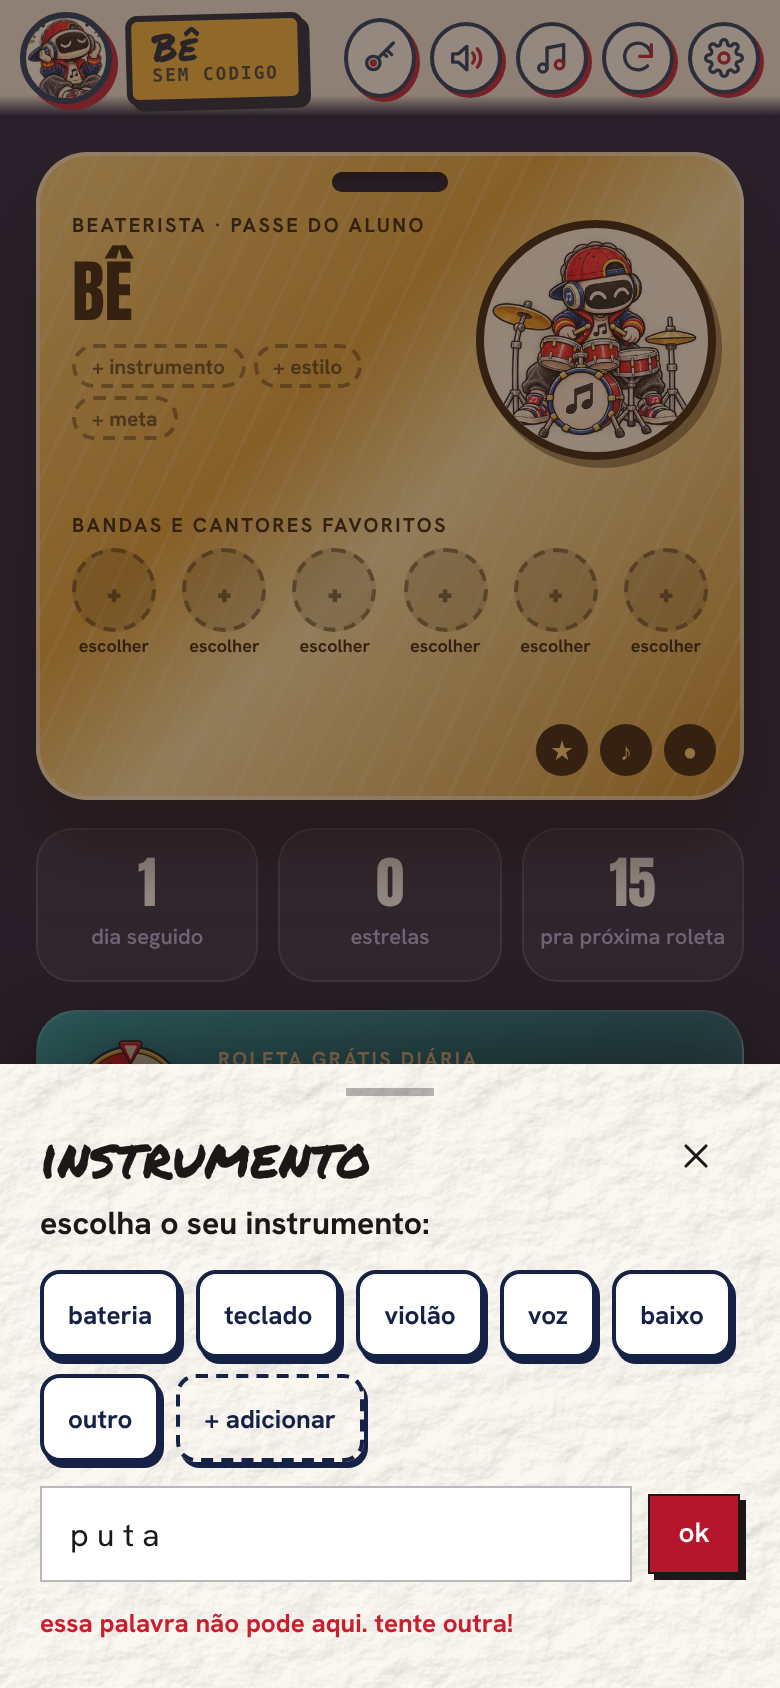
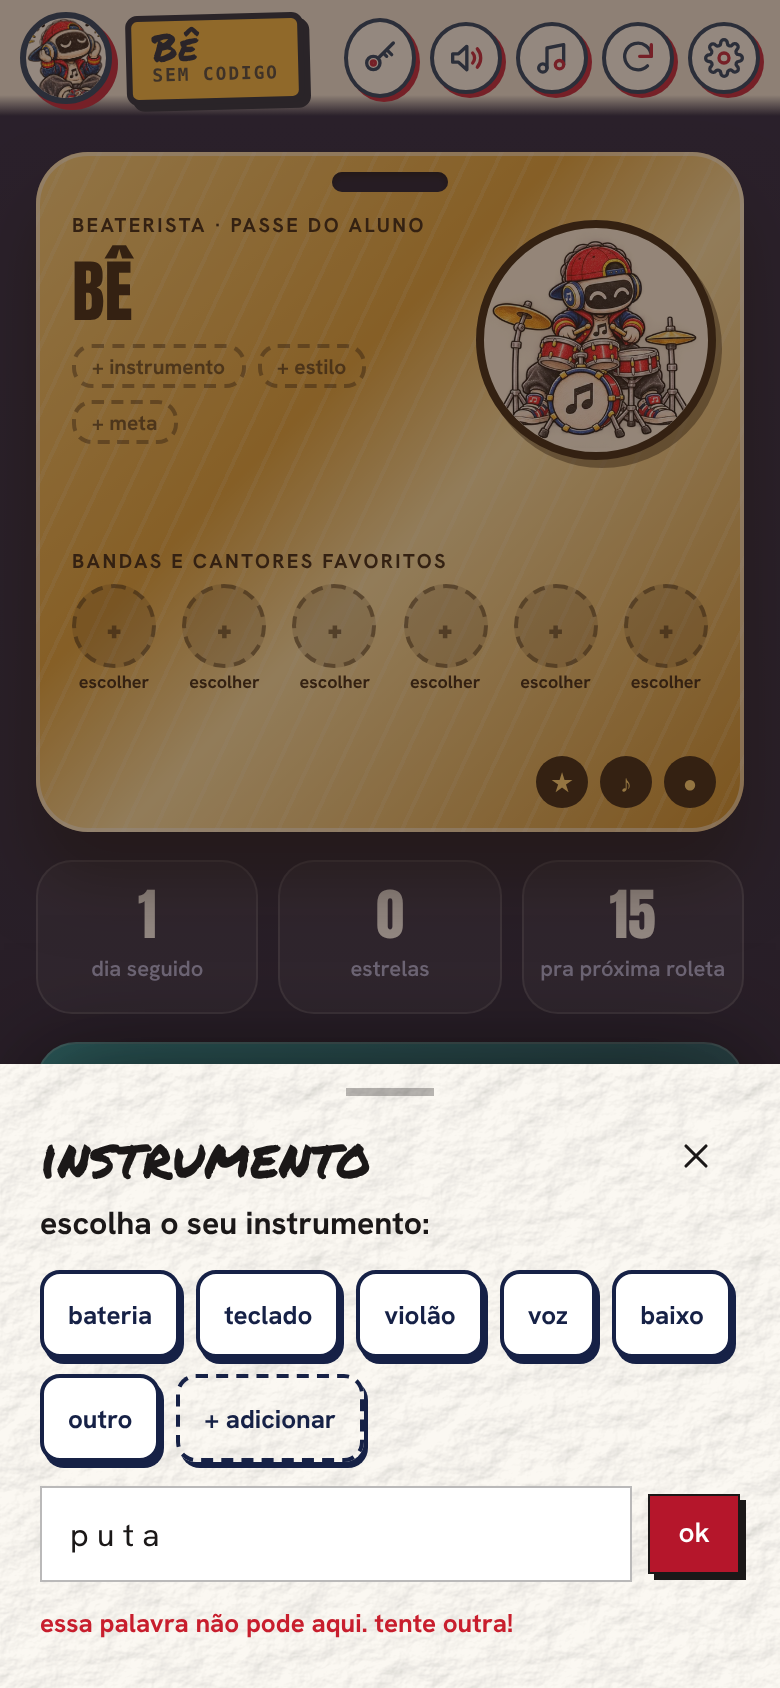
v709: etiquetas adesivo (opcao B) e lista de palavras bloqueadas ampliada (67, aura, farmador...)
Claude-Session: https://claude.ai/code/session_017Ekti3kM2Vxnu27Y3eqQNw

diff --git a/js/palavras-bloqueadas.js b/js/palavras-bloqueadas.js
@@ -2,13 +2,14 @@
 // É uma lista inicial: a Bea (ou eu) acrescenta ou tira palavras aqui, uma por linha. Escreva sem acento e em minúsculas.
 // Como confere: ignora acento, maiúscula, número no lugar de letra (p0rra), letras repetidas (puuuta) e espaço ou ponto no meio (p u t a).
 const BLOQUEADAS = `
-puta puto putaria putinha porra caralho carai cacete merda bosta foda fode foder fodase fodido fdp vsf vtnc tnc
-cu cuzao cuzinho buceta bct xoxota xana piroca punheta boquete siririca
+puta puto putaria putinha putao porra caralho caraio karalho carai krl cacete merda merdinha bosta bostinha foda fode foder fodase fodido fodida fdp vsf vtnc pqp pnc
+cu cuzao cuzona cuzinho buceta bct xoxota xana piroca punheta boquete siririca tomanocu vaitomanocu
 viado viadinho bicha sapatao traveco vagabunda vagabundo vadia piranha arrombado arrombada desgraca desgracado
-otario otaria idiota imbecil retardado retardada mongol babaca escroto escrota
-sexo sexy porno pornografia nude nudes gostosa gostoso tesao transar estupro estuprador pedofilo pedofilia
-nazista nazismo hitler racista
-suicidio suicida cocaina maconha crack heroina
+otario otaria idiota imbecil retardado retardada mongol babaca escroto escrota burro burra estupido estupida trouxa corno cornudo cretino cretina demente debil lazarento nojento mulambo
+sexo sexy porno pornografia nude nudes tesao transar estupro estuprador pedofilo pedofilia
+nazista nazismo hitler racista crioulo
+suicidio suicida cocaina maconha heroina
+67 sixseven seissete aura farmaaura farmador farmadora farmar farmando farmei sigma skibidi gyatt gyat rizz mewing brainrot ohio
 fuck fucking shit bitch dick pussy cunt asshole nigger nigga faggot porn sex
 `.split(/\s+/).filter(Boolean);
 const SET = new Set(BLOQUEADAS);
@@ -21,6 +22,7 @@ const semRepetir = (t) => t.replace(/(.)\1+/g, '$1');
 /** O texto tem alguma palavra que não pode? */
 export function bloqueada(texto) {
   const base = normaliza(texto);
+  if (/(?:^|\D)6\s*[-.,_]?\s*7(?!\d)/.test(String(texto || ''))) return true; // "67" (também "6 7", "6-7")
   const brutas = base.split(/[^a-z]+/).filter(Boolean);
   const palavras = []; let letras = ''; // letras soltas seguidas (p u t a) viram uma palavra só
   for (const t of brutas) { if (t.length === 1) letras += t; else { if (letras) { palavras.push(letras); letras = ''; } palavras.push(t); } }

diff --git a/css/inicio.css b/css/inicio.css
@@ -163,3 +163,12 @@ body:has(.inicio) .atualiza-bar { display: none !important; }
 .in-sobre-chips button { border: 2px solid #162146; background: #fff; color: #162146; border-radius: 10px !important; padding: 6px 12px; font: 700 13px "Hanken Grotesk", sans-serif; box-shadow: 2px 3px 0 #162146; cursor: pointer; }
 .in-sobre-chips button.on, .in-sobre-chips button[aria-pressed="true"] { background: #f2a91b; }
 .in-sobre-chips .in-sobre-mais { border-style: dashed; background: transparent; }
+
+/* etiquetas "adesivo" (opção B da Bea): creme, borda grossa, sombra deslocada e giro leve; o rótulo em vermelho e o valor ao lado */
+.in-pills { gap: 6px; }
+.in-pill.tem { background: #fff7e6; color: #2a1a05; border: 2px solid #2a1a05; border-radius: 10px !important; padding: 3px 9px 4px; font: 700 11px "Hanken Grotesk", sans-serif; box-shadow: 2px 3px 0 #2a1a05; }
+.in-pill.tem b { font: 400 10px "Anton", sans-serif; text-transform: uppercase; letter-spacing: .1em; color: #c81e2d; margin-right: 5px; }
+.in-pill.tem:nth-child(1) { transform: rotate(-2deg); } .in-pill.tem:nth-child(2) { transform: rotate(1.5deg); } .in-pill.tem:nth-child(3) { transform: rotate(-1deg); }
+.in-pill:not(.tem) { border-radius: 10px !important; }
+.in-passe { height: 340px; }
+.in-passe .in-favt { top: 198px; } .in-passe .in-favs { top: 216px; }

diff --git a/js/views/inicio.js b/js/views/inicio.js
@@ -160,7 +160,7 @@ export function mount(host, { nome = '' } = {}) {
     if (atual) caixa.append(h('button', { type: 'button', class: 'btn small ghost', onclick: () => pega('') }, 'tirar'));
     return caixa;
   });
-  const desenhaPills = () => { const p = PERF.perfil(); pills.replaceChildren(...PERF.CAMPOS.map((c) => h('button', { type: 'button', class: `in-pill${p[c.k] ? ' tem' : ''}`, 'aria-label': p[c.k] ? `${c.nome}: ${p[c.k]}. tocar pra trocar` : `escolher ${c.nome}`, onclick: () => escolherCampo(c) }, p[c.k] ? `${c.nome}: ${p[c.k]}` : `+ ${c.nome}`))); };
+  const desenhaPills = () => { const p = PERF.perfil(); pills.replaceChildren(...PERF.CAMPOS.map((c) => h('button', { type: 'button', class: `in-pill${p[c.k] ? ' tem' : ''}`, 'aria-label': p[c.k] ? `${c.nome}: ${p[c.k]}. tocar pra trocar` : `escolher ${c.nome}`, onclick: () => escolherCampo(c) }, ...(p[c.k] ? [h('b', {}, c.nome), p[c.k]] : [`+ ${c.nome}`])))); };
   desenhaPills();
   const passe = h('section', { class: 'in-passe', 'aria-label': 'passe do aluno' },
     h('i', { class: 'in-furo', 'aria-hidden': 'true' }),

diff --git a/sw.js b/sw.js
@@ -1,5 +1,5 @@
 // Service worker: cacheia só o "casco" do app (código + marca). Nenhum dado do usuário passa por aqui.
-const VERSION = 'beaterista-v708';
+const VERSION = 'beaterista-v709';
 const SHELL = [
   'js/paulta/livre.js', 'js/dicas-aluno.js', 'js/boas-vindas.js', 'js/inicio-perfil.js', 'js/palavras-bloqueadas.js',
   'js/paulta/mapa.js',
